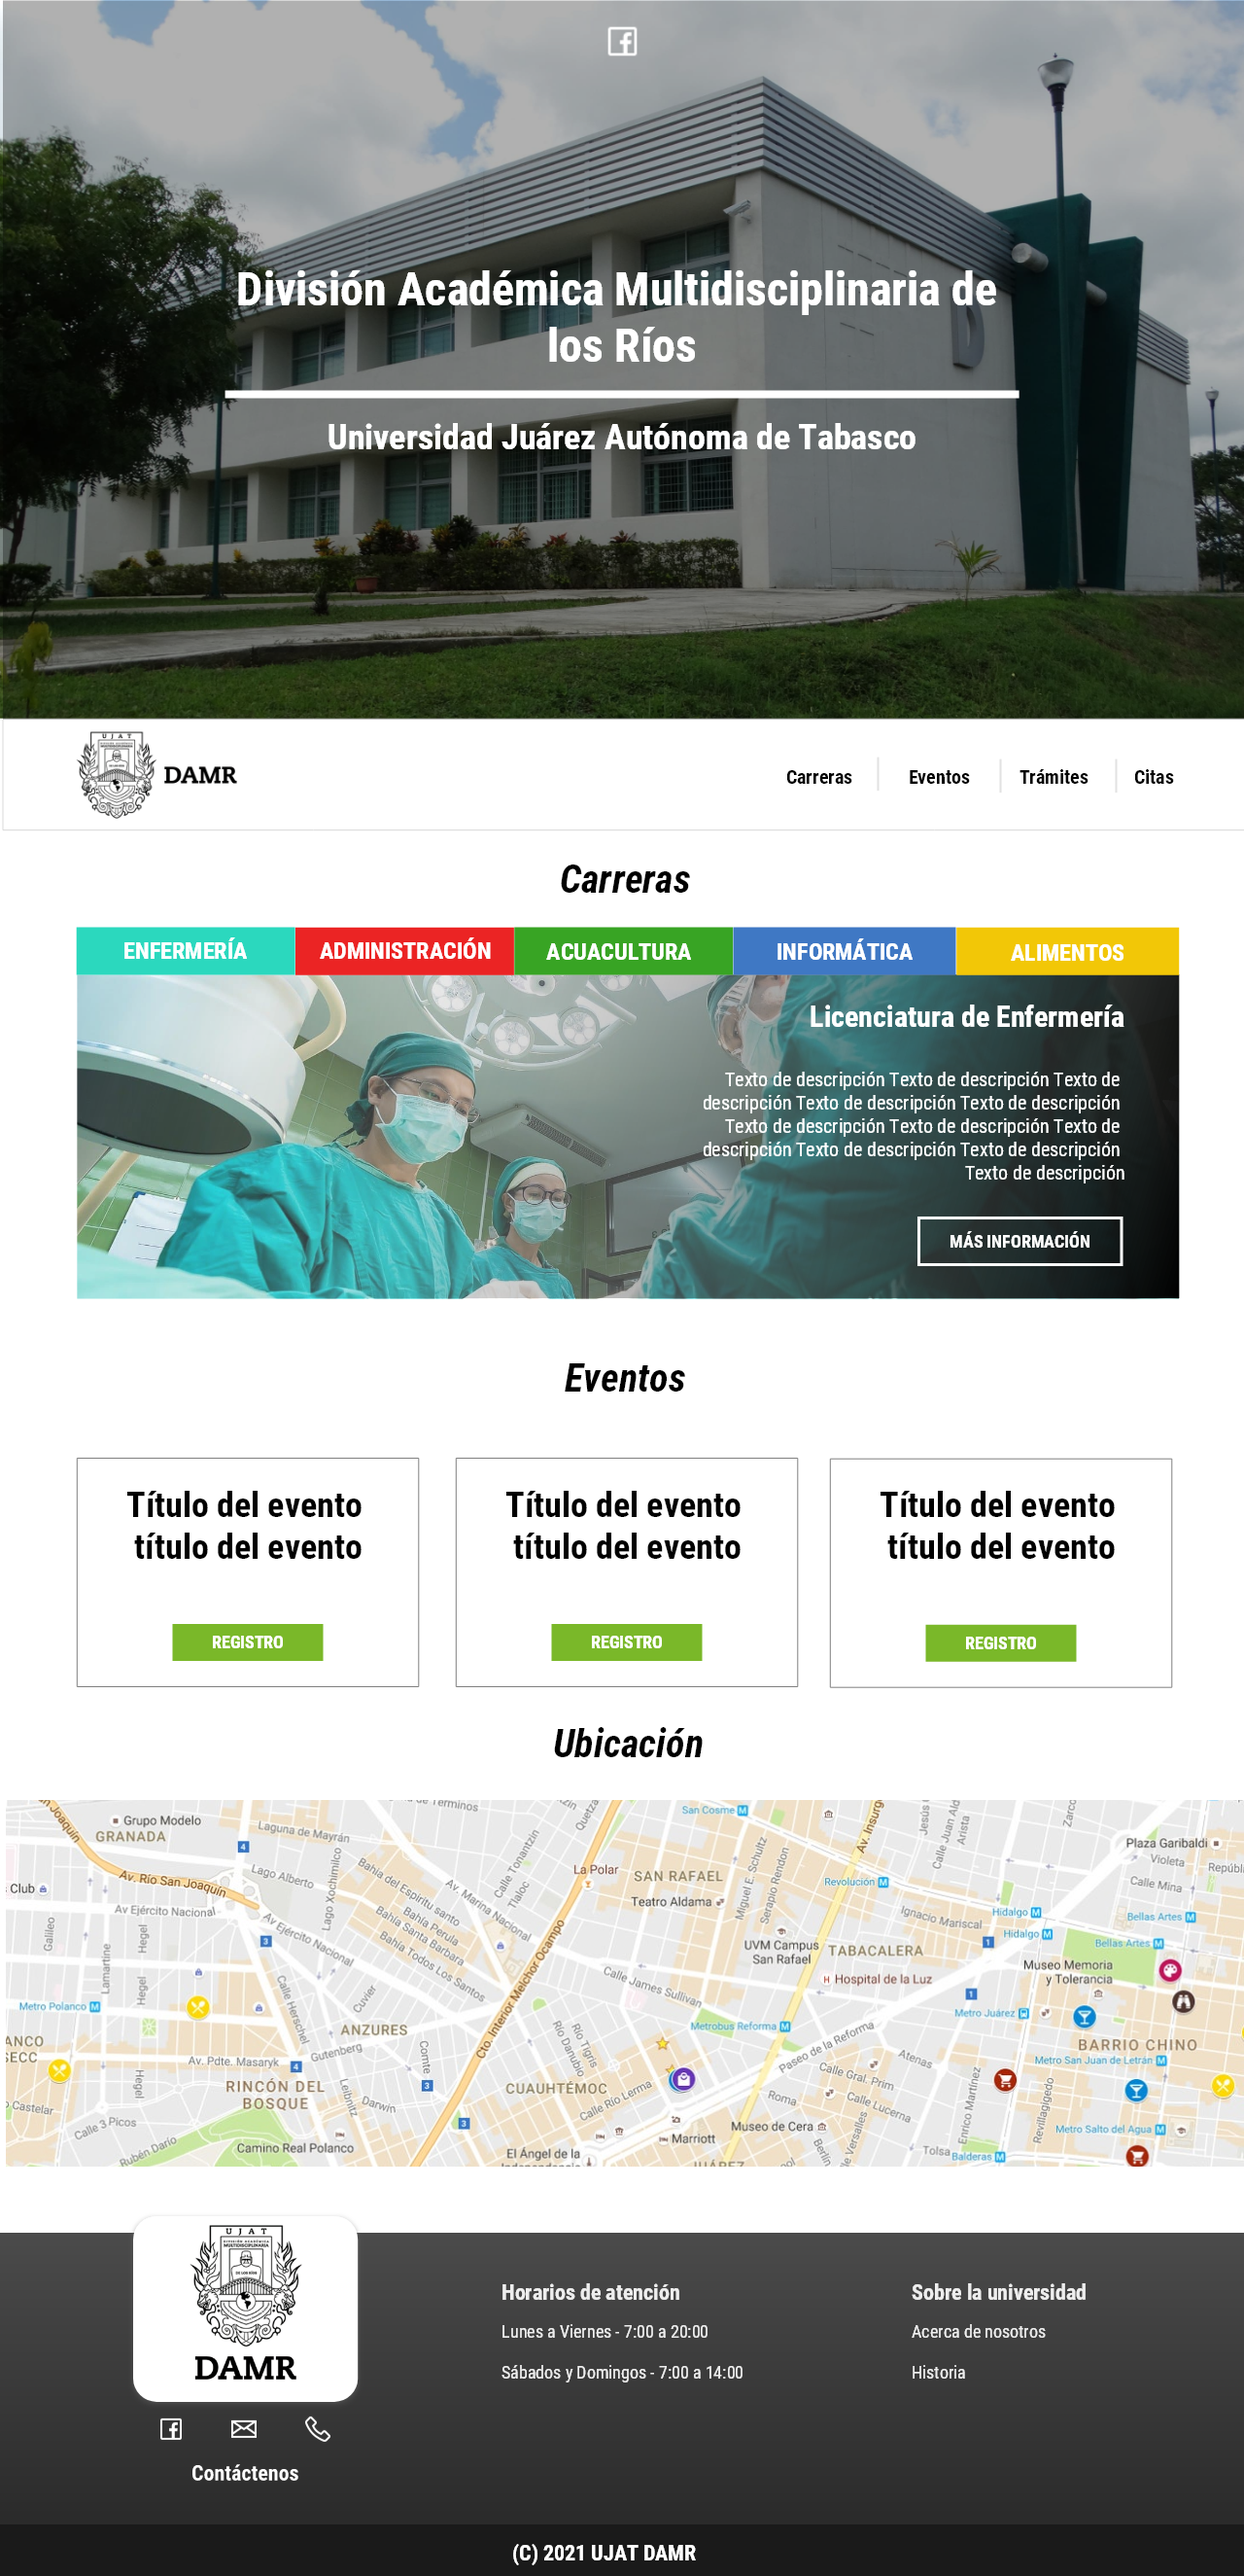
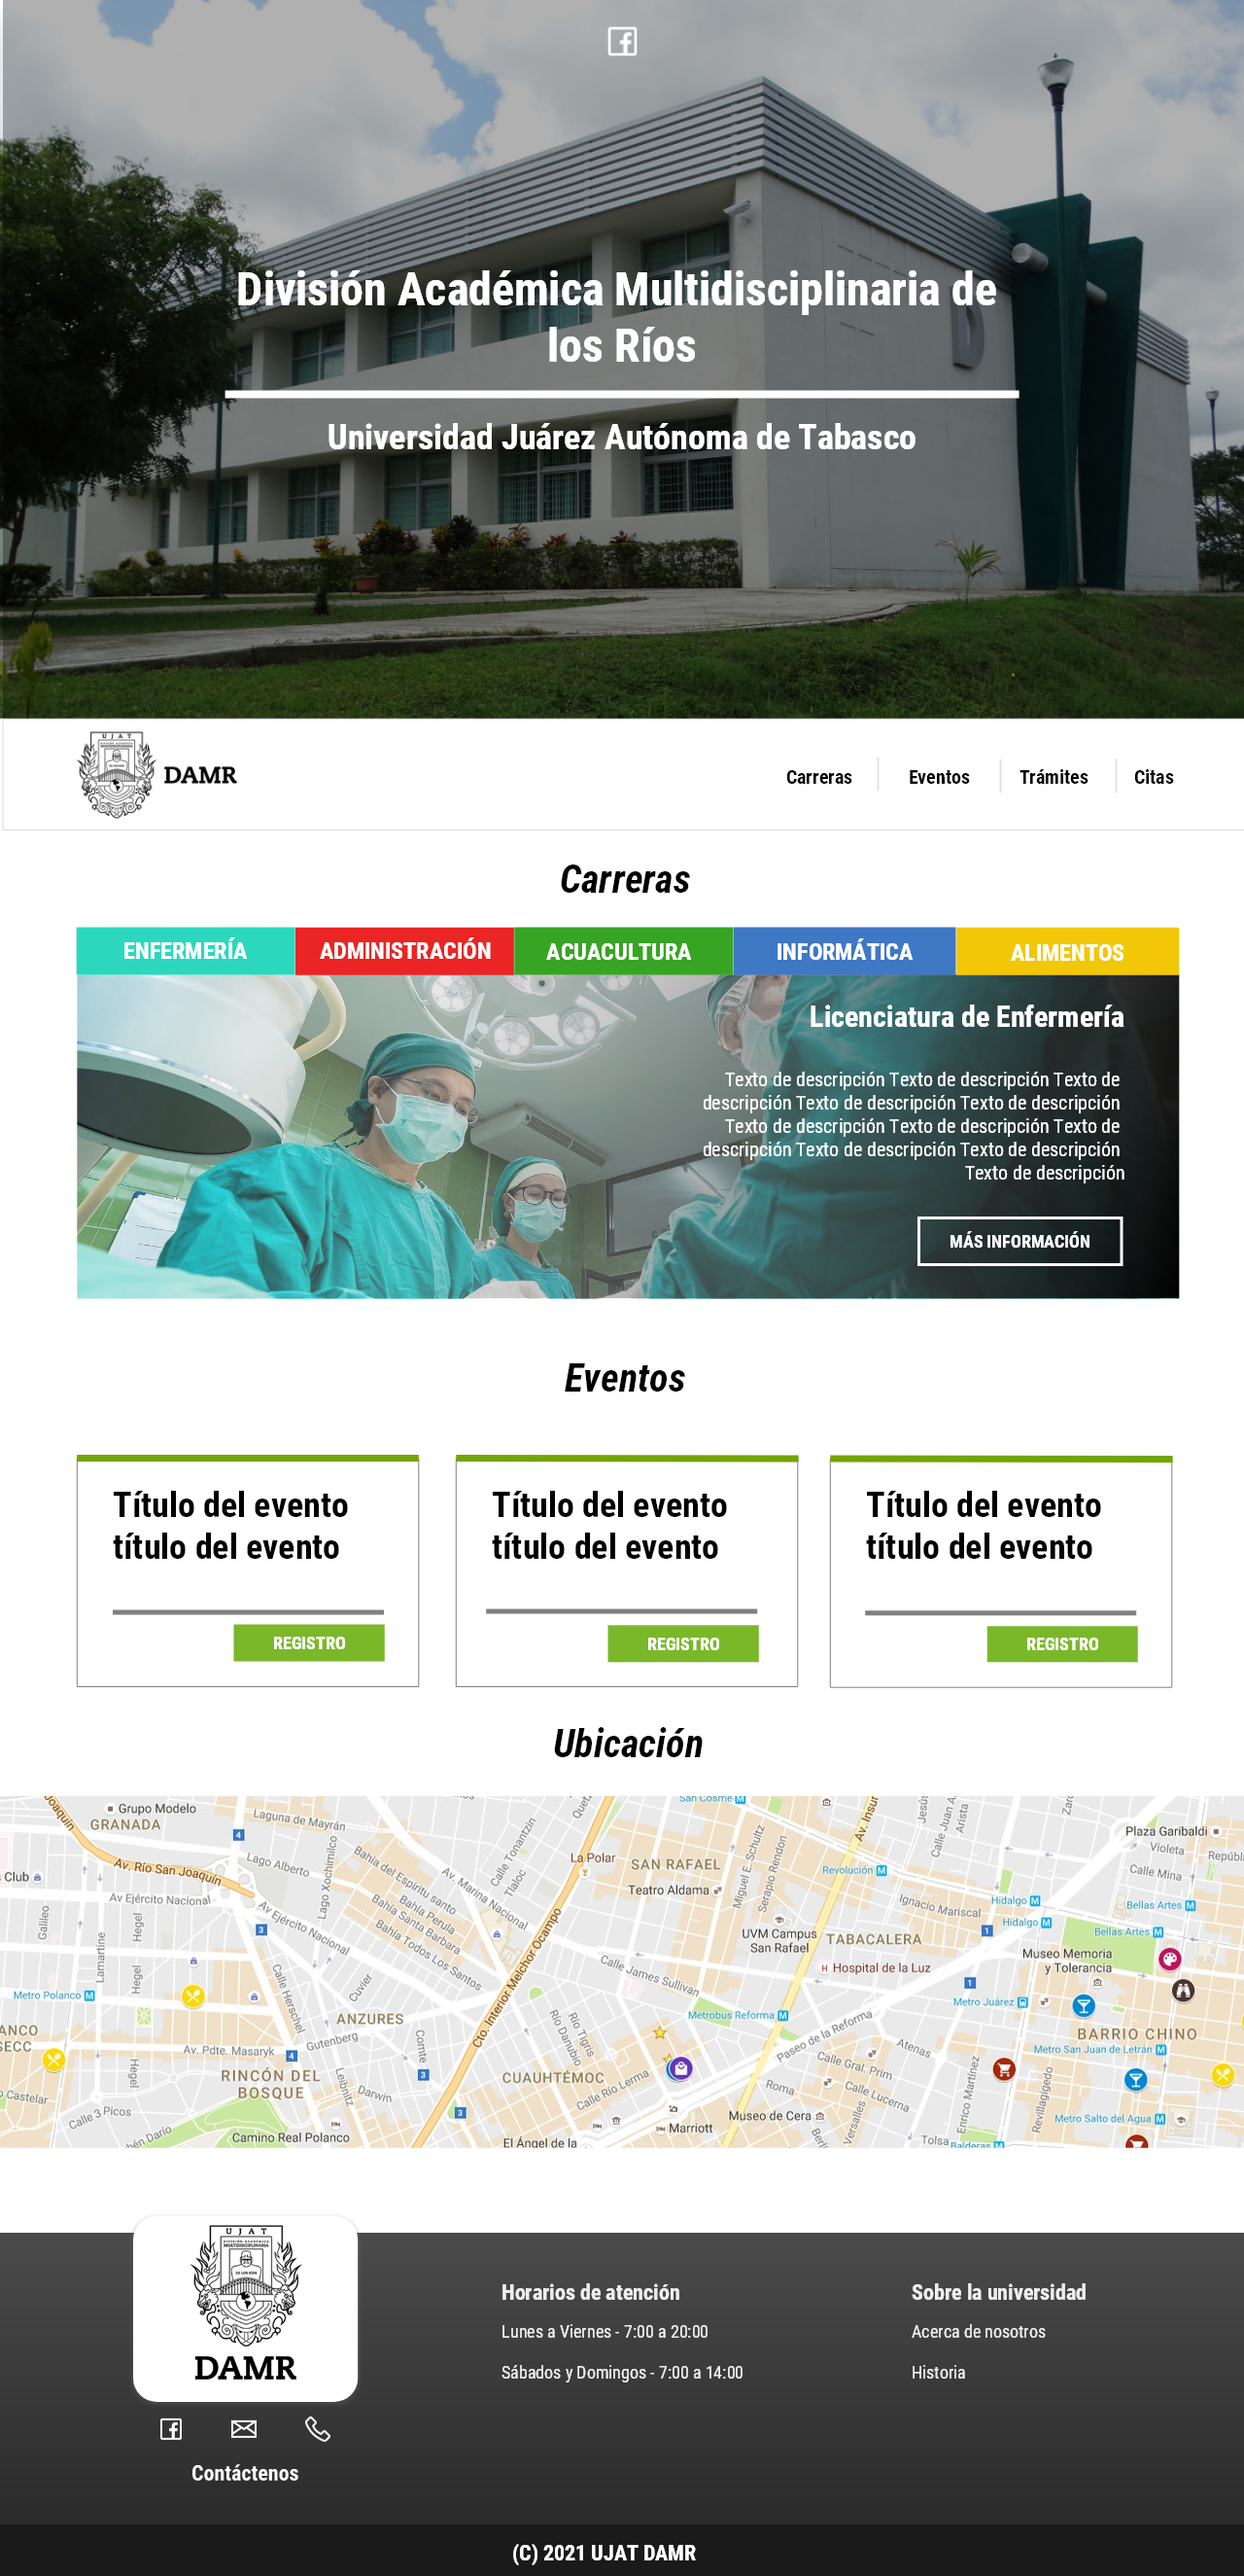
Seccion eventos completado

diff --git a/index.html b/index.html
@@ -204,11 +204,54 @@
         <section id="eventos" class="index-events">
             <h1>Eventos</h1>
             <section class="events__container">
-                <article></article>
-                <article></article>
-                <article></article>
-                <article></article>
-                <article></article>
+                <article>
+                    <div class="title-header">
+                        <h2>Congreso Virtual Internacional</h2>
+                    </div>
+                    <div class="event-button">
+                        <a href="">Registro</a>
+                    </div>
+                </article>
+                <article>
+                    <div class="title-header">
+                        <h2>Congreso Virtual Internacional</h2>
+                    </div>
+                    <div class="event-button">
+                        <a href="">Registro</a>
+                    </div>
+                </article>
+                <article>
+                    <div class="title-header">
+                        <h2>Congreso Virtual Internacional </h2>
+                    </div>
+                    <div class="event-button">
+                        <a href="">Registro</a>
+                    </div>
+                </article>
+                <article>
+                    <div class="title-header">
+                        <h2>Congreso Virtual Internacional </h2>
+                    </div>
+                    <div class="event-button">
+                        <a href="">Registro</a>
+                    </div>
+                </article>
+                <article>
+                    <div class="title-header">
+                        <h2>Congreso Virtual Internacional</h2>
+                    </div>
+                    <div class="event-button">
+                        <a href="">Registro</a>
+                    </div>
+                </article>
+                <article>
+                    <div class="title-header">
+                        <h2>Congreso Virtual Internacional</h2>
+                    </div>
+                    <div class="event-button">
+                        <a href="">Registro</a>
+                    </div>
+                </article>
             </section>
         </section>
         <section class="map__section" id="map">

diff --git a/assets/css/styles.css b/assets/css/styles.css
@@ -148,7 +148,7 @@ footer .footer-information, .index-events, .index-careers, .header__nav .nav__co
       flex-wrap: wrap;
 }
 .header__nav .nav__container .nav-logo {
-  width: 35%;
+  width: 27%;
   display: -webkit-box;
   display: -ms-flexbox;
   display: flex;
@@ -261,8 +261,29 @@ footer .footer-information, .index-events, .index-careers, .header__nav .nav__co
   grid-row-gap: 25px;
 }
 .index-events .events__container article {
-  height: 350px;
+  height: auto;
   border: 1px solid gray;
+  padding: 20px 20px 10px 20px;
+  border-top: 5px solid #7ab829;
+}
+.index-events .events__container article .title-header {
+  min-height: 100px;
+  border-bottom: 5px solid gray;
+}
+.index-events .events__container article .event-button {
+  display: -webkit-box;
+  display: -ms-flexbox;
+  display: flex;
+  -webkit-box-pack: end;
+      -ms-flex-pack: end;
+          justify-content: end;
+  padding: 10px 0;
+}
+.index-events .events__container article .event-button a {
+  background-color: #7ab829;
+  text-transform: uppercase;
+  color: white;
+  padding: 10px 20px;
 }
 
 footer {

diff --git a/assets/scss/components/_events.scss b/assets/scss/components/_events.scss
@@ -9,8 +9,25 @@
     grid-row-gap: 25px;
 
     article {
-      height: 350px;
+      height: auto;
       border: 1px solid gray;
+      padding: 20px 20px 10px 20px;
+      border-top: 5px solid #7ab829;
+      .title-header {
+        min-height: 100px;
+        border-bottom: 5px solid gray;
+      }
+      .event-button {
+        display: flex;
+        justify-content: end;
+        padding: 10px 0;
+        a {
+          background-color: #7ab829;
+          text-transform: uppercase;
+          color: white;
+          padding: 10px 20px;
+        }
+      }
     }
   }
 }

diff --git a/assets/css/computer.css b/assets/css/computer.css
@@ -69,6 +69,9 @@ h1 {
   -ms-grid-columns: 1fr 2fr;
   grid-template-columns: 1fr 2fr;
 }
+.header__nav .nav__container .nav-logo {
+  width: 35%;
+}
 .header__nav .nav__container .nav-menu-movil {
   display: none;
 }
@@ -100,8 +103,8 @@ h1 {
 }
 
 .index-events .events__container {
-  -ms-grid-columns: 1fr 15px 1fr 15px 1fr;
-  grid-template-columns: 1fr 1fr 1fr;
+  -ms-grid-columns: 1fr 15px 1fr 15px 1fr 15px 1fr;
+  grid-template-columns: 1fr 1fr 1fr 1fr;
   grid-column-gap: 15px;
 }
 

diff --git a/assets/scss/desktop/_styles-1.scss b/assets/scss/desktop/_styles-1.scss
@@ -16,6 +16,9 @@
     @extend %contenedorDesktop;
     display: grid;
     grid-template-columns: 1fr 2fr;
+    .nav-logo {
+      width: 35%;
+    }
     .nav-menu-movil {
       display: none;
     }
@@ -47,7 +50,7 @@
 
 .index-events {
   .events__container {
-    grid-template-columns: 1fr 1fr 1fr;
+    grid-template-columns: 1fr 1fr 1fr 1fr;
     grid-column-gap: 15px;
   }
 }

diff --git a/assets/scss/components/_header.scss b/assets/scss/components/_header.scss
@@ -64,7 +64,7 @@
     align-items: center;
     flex-wrap: wrap;
     .nav-logo {
-      width: 35%;
+      width: 27%;
       display: flex;
 
       img {
